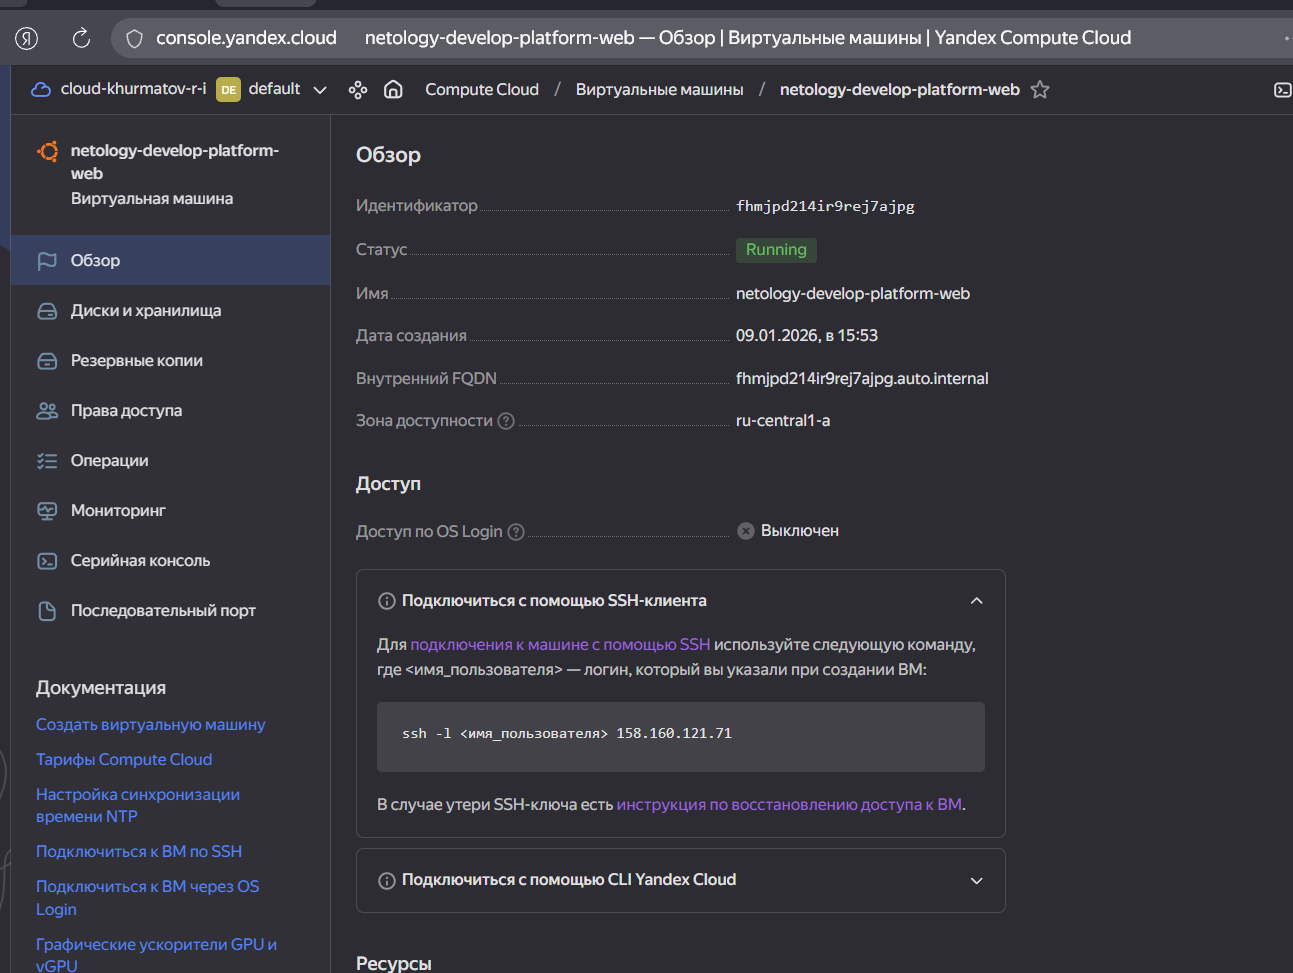
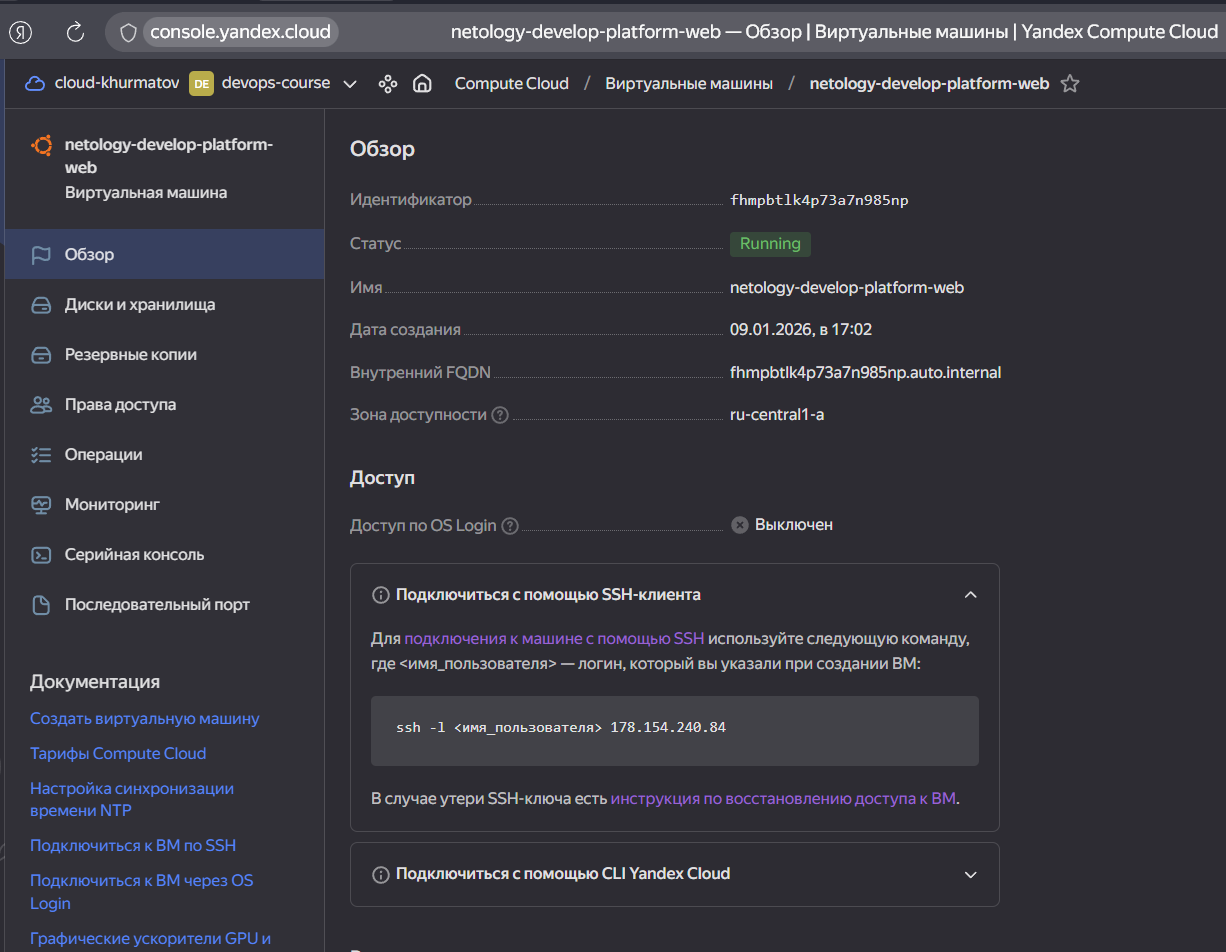
terraform

diff --git a/ter-homeworks/02/README.md b/ter-homeworks/02/README.md
@@ -135,10 +135,126 @@ Error: Error while requesting API to create instance: client-request-id = b760df
 
 ### Решение 2
 
-1. 
-2. Объявите нужные переменные в файле variables.tf, обязательно указывайте тип переменной. Заполните их **default** прежними значениями из main.tf.
-3. Проверьте terraform plan. Изменений быть не должно.
+1. Заменил хардкод-**значения** для ресурсов **yandex_compute_image** и **yandex_compute_instance** на **отдельные** переменные.
+```main.tf```
+```
+resource "yandex_vpc_network" "develop" {
+  name = var.vpc_name
+}
+resource "yandex_vpc_subnet" "develop" {
+  name           = var.vpc_name
+  zone           = var.default_zone
+  network_id     = yandex_vpc_network.develop.id
+  v4_cidr_blocks = var.default_cidr
+}
 
+
+data "yandex_compute_image" "ubuntu" {
+  family = var.vm_web_image_name
+}
+resource "yandex_compute_instance" "platform" {
+  name            = var.vm_web_name
+  platform_id     = var.vm_web_platform_id
+  resources {
+    cores         = var.vm_web_resources.cores
+    memory        = var.vm_web_resources.memory
+    core_fraction = var.vm_web_resources.core_fraction
+  }
+  boot_disk {
+    initialize_params {
+      image_id = data.yandex_compute_image.ubuntu.image_id
+    }
+  }
+  scheduling_policy {
+    preemptible = true
+  }
+  network_interface {
+    subnet_id = yandex_vpc_subnet.develop.id
+    nat       = true
+  }
+
+  metadata = {
+    serial-port-enable = 1
+    ssh-keys           = "ubuntu:${var.vms_ssh_root_key}"
+  }
+
+}
+```
+
+2. Объявил нужные переменные в файле variables.tf.
+   ```variables.tf```
+```
+###cloud vars
+
+variable "cloud_id" {
+  type        = string
+  default     = "b1gr1jpfke2d4ha6mb8u"
+  description = "https://cloud.yandex.ru/docs/resource-manager/operations/cloud/get-id"
+}
+
+variable "folder_id" {
+  type        = string
+  default     = "b1glu738ickrd0srogut"
+  description = "https://cloud.yandex.ru/docs/resource-manager/operations/folder/get-id"
+}
+
+variable "default_zone" {
+  type        = string
+  default     = "ru-central1-a"
+  description = "https://cloud.yandex.ru/docs/overview/concepts/geo-scope"
+}
+variable "default_cidr" {
+  type        = list(string)
+  default     = ["10.0.1.0/24"]
+  description = "https://cloud.yandex.ru/docs/vpc/operations/subnet-create"
+}
+
+variable "vpc_name" {
+  type        = string
+  default     = "develop"
+  description = "VPC network & subnet name"
+}
+
+###ssh vars
+
+variable "vms_ssh_root_key" {
+  type        = string
+  default     = "ssh-ed25519 AAAAC3NzaC1lZDI1NTE5AAAAIAZ8JS3GqbSgTYGq8CzTYhfYG5nhcrn83RV7pXccbBTz"
+  description = "ssh-keygen -t ed25519"
+}
+
+### yandex_compute_image vars
+
+variable "vm_web_image_name" {
+  type        = string
+  default     = "ubuntu-2004-lts"
+  description = "Имя образа ОС"
+}
+
+### yandex_compute_instance vars
+
+variable "vm_web_name" {
+  type        = string
+  default     = "netology-develop-platform-web"
+  description = "Имя виртуальной машины"
+}
+variable "vm_web_platform_id" {
+  type = string
+  default = "standard-v3"
+  description = "ID виртуальной платформы"
+}
+variable "vm_web_resources" {
+  type = map(number)
+  default = {
+    cores          = 2
+    memory         = 1
+    core_fraction  = 20
+ }
+}
+```
+
+3. Выполнил команду ```terraform plan```:
+![1.8.png](images/1.8.png)
 
 ### Задание 3
 
@@ -146,6 +262,15 @@ Error: Error while requesting API to create instance: client-request-id = b760df
 2. Скопируйте блок ресурса и создайте с его помощью вторую ВМ в файле main.tf: **"netology-develop-platform-db"** ,  ```cores  = 2, memory = 2, core_fraction = 20```. Объявите её переменные с префиксом **vm_db_** в том же файле ('vms_platform.tf').  ВМ должна работать в зоне "ru-central1-b"
 3. Примените изменения.
 
+### Решение 3
+
+1. Создал в корне проекта файл 'vms_platform.tf'. Перенес в него все переменные первой ВМ.
+
+
+
+
+2. Скопируйте блок ресурса и создайте с его помощью вторую ВМ в файле main.tf: **"netology-develop-platform-db"** ,  ```cores  = 2, memory = 2, core_fraction = 20```. Объявите её переменные с префиксом **vm_db_** в том же файле ('vms_platform.tf').  ВМ должна работать в зоне "ru-central1-b"
+3. Примените изменения.
 
 ### Задание 4
 
